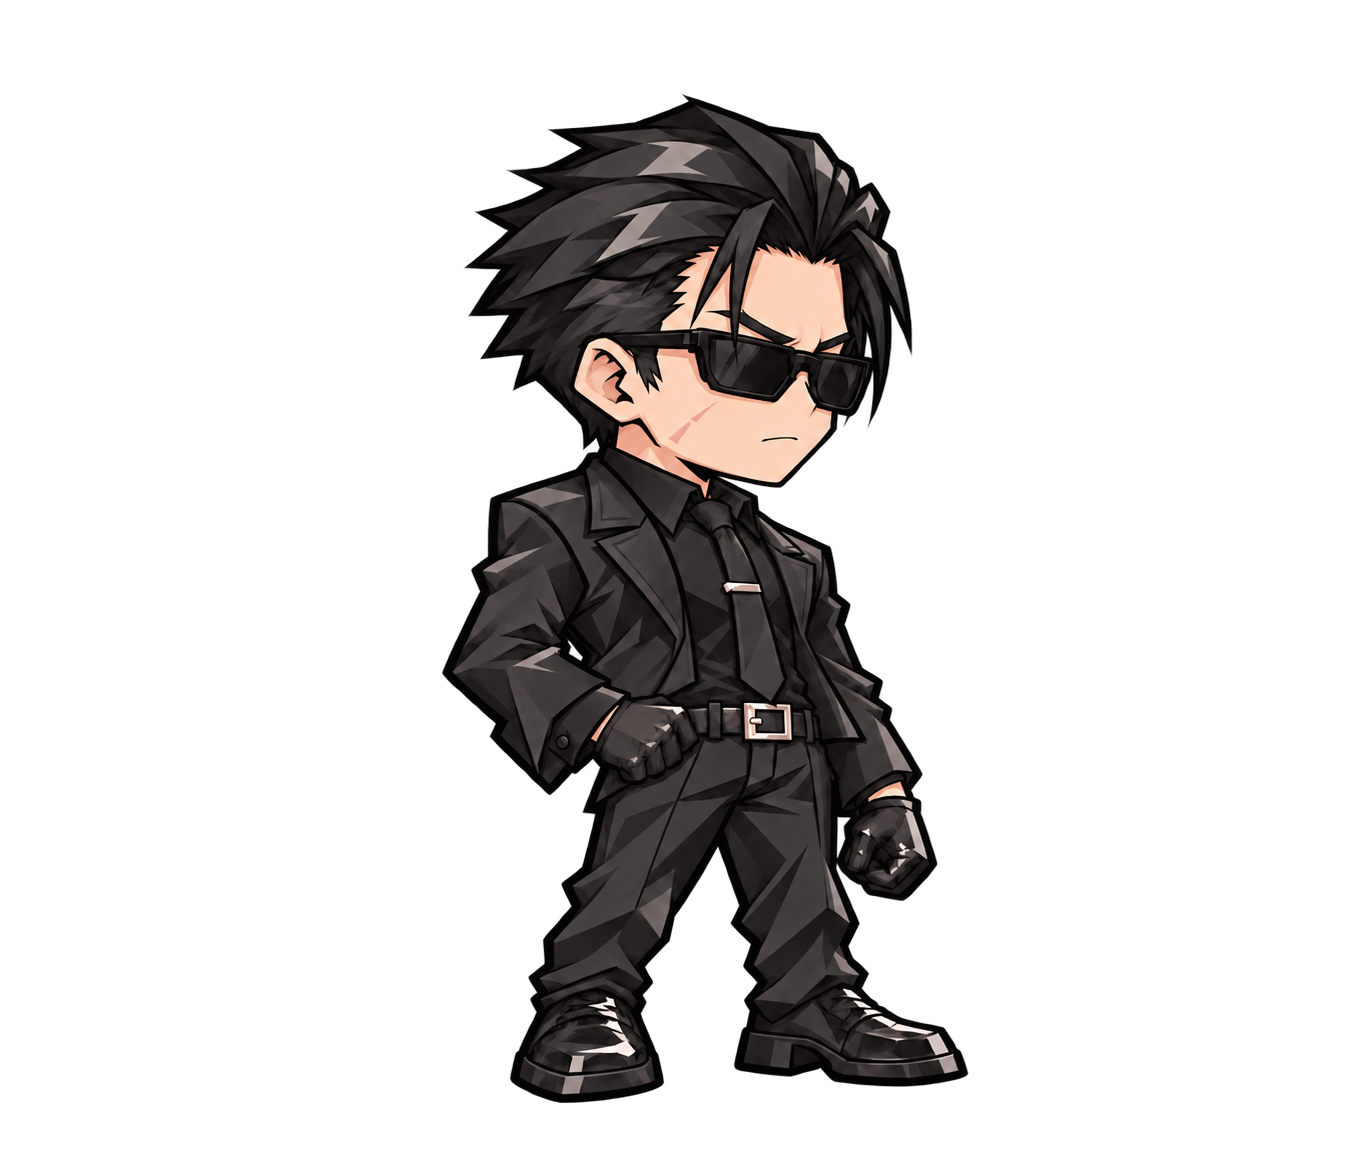
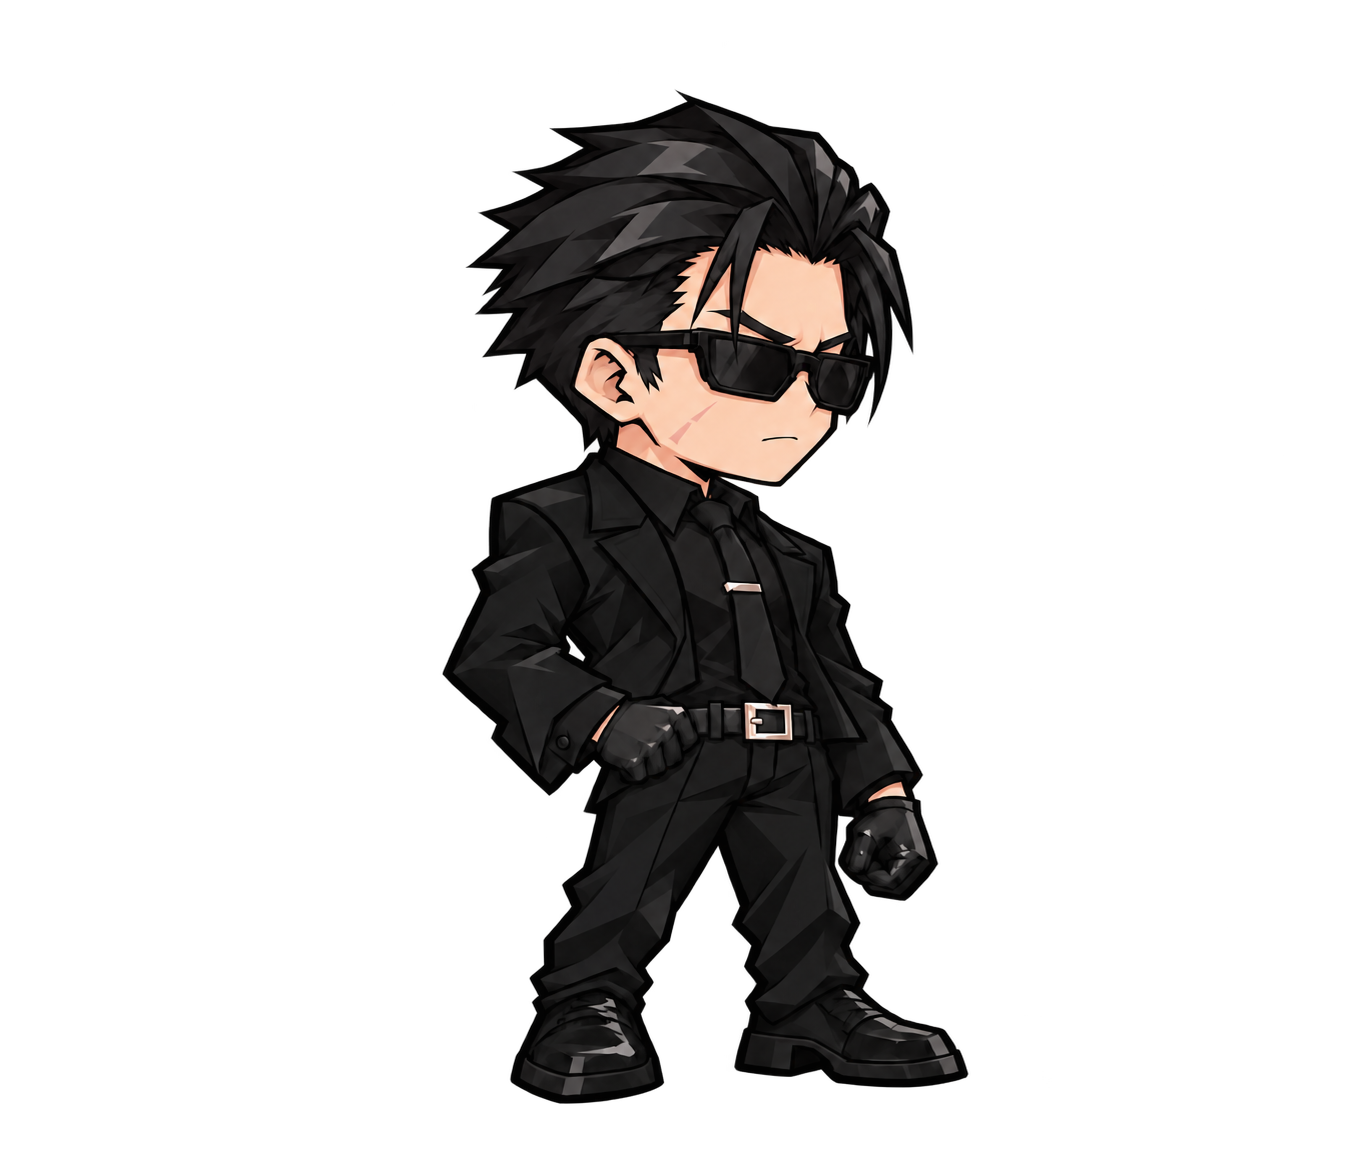
敌人调整

diff --git a/docs/修改记录.md b/docs/修改记录.md
@@ -1,5 +1,25 @@
 # 午夜委托项目修改记录
 
+## 2026 年 10 月 20 日 回退黑帮人物加高试调
+
+按用户最新要求，撤销本轮黑帮老大与两名小弟整体放大15%的试调，以及配套形象解析、角色缩放、镜头取景和专项测试修改，逐字节恢复本轮修改前备份。当前人物尺寸、脚底锚点和动作校准恢复到上一版；小弟衣服加深、同列X=965及上下间距200、老大最右站位均保留。未替换任何人物图片或修改战斗规则。
+
+5个试调文件均与修改前备份一致，99个受保护资源／数据／业务文件哈希无变化。试调截图仅为已撤销历史证据，不作为当前交付；备份、试调副本与回退核验见`artifacts/qa/gang-height-2026-10-20/rollback-verification.json`。
+
+## 2026 年 10 月 19 日 加深黑帮小弟衣服颜色
+
+按用户要求，用内置image_gen对两名小弟共用的站姿、前进、拳打、受击4张图作服装明暗调整：压低外套、衬衣、领带、裤子及鞋／手套的灰色高光，保留褶皱和轮廓，整体更接近深黑。新版以“衣服加深版”另存美术动作参考目录；原“比例统一版”与当前运行图修改前副本均保留。运行目录4张小弟PNG与来源清单同步更新，老大与诺伦图不变。
+
+4张均为1346×1168真实透明RGBA，与保存源图SHA256逐字节一致。可见边界变化0～6源像素（运行尺度不到1逻辑像素），继续使用原脚底锚点和scale；不改头身配置、同列间距、目标区域、角色代码、模型、血量或意图。服装中性暗色区域同掩码对照均确认亮度降低；这仅作为明暗采样，人物和整体效果另作目视检查。
+
+导入通过，1280×800实际窗口动作／目标／归位专项91项、0失败，无脚本／shader错误；目视检查两名小弟同屏服色和动作，模型／HUD／站位脚本、美术配置及老大／诺伦文件哈希未变化。本轮不重复规则测试，不代表真人物理输入或用户视觉接受。证据、备份、4张交付路径与提示词：`artifacts/qa/henchmen-dark-clothes-2026-10-19/`，美术目录附`衣服加深版_生成记录.json`。
+
+## 2026 年 10 月 19 日 拉开两名黑帮小弟的上下间距
+
+按用户“略微分开，仍保持并列”的最新要求，两小弟保留原同列对齐X=965，只将上方小弟从`floor_y-115`移到`floor_y-135`、下方从`floor_y+45`移到`floor_y+65`，各移动20逻辑像素，纵向间距160→200，减少下方头部对上方脚底血条的遮挡。老大槽位、原画、角色缩放、血条跟随、目标区域、规则和HP／意图保持原样。
+
+1280×800真实窗口专项91项、0失败，检查三目标独立选择、所有动作、攻击回调及归位保持新间距，目视检查同列待机画面，无脚本／shader错误。模型、Buff、HUD脚本、敌人／战斗／美术配置及8张角色贴图哈希均未变化。无需新增规则测试；本轮为窗口与目标判定验证，不代表真人物理输入。最终证据：`artifacts/qa/gang-spacing-2026-10-19/aligned-1280/`；早先左右错位尝试按用户纠正撤回，其日志另存未作最终结果。
+
 ## 2026 年 10 月 19 日 数字键选择手牌
 
 战斗中主键盘1～9选择当前从左到右第1～9张手牌，0选择第10张，小键盘数字同样支持。按当前model.hand顺序索引，不受悬停抬升或选中后居中／跟随位置影响；出牌后自然对应新的手牌序号，超出手牌数不操作，重复按同一键保持选中。仅调用现有select_card路径，不自动出牌、不消耗资源，鼠标确认、右键及Esc取消和费用／弹药不足提示沿原流程。

diff --git a/docs/维护文档.md b/docs/维护文档.md
@@ -1,5 +1,11 @@
 # 午夜委托项目维护文档
 
+2026-10-20黑帮人物加高试调已按用户要求回退：恢复修改前尺寸及相关表现脚本，不保留本轮15%放大或镜头调整。小弟深色衣服、同列站位与200间距仍为当前基线。5个试调文件逐字节恢复，99个受保护文件哈希一致；回退核验见`artifacts/qa/gang-height-2026-10-20/rollback-verification.json`。该目录放大截图为已撤销试调。
+
+2026-10-19小弟服装加深：用内置image_gen同步调整共用站姿、前进、拳打、受击4张RGBA，压暗衣服灰色高光并保留褶皱；两名小弟同时使用。新版另存美术目录“衣服加深版”，原比例统一版保留，运行图及来源清单更新。现有锚点、缩放、同列间距、老大／诺伦和战斗脚本未改。导入及1280窗口专项91项0失败，已目视检查同屏效果。证据与提示词`artifacts/qa/henchmen-dark-clothes-2026-10-19/`。
+
+2026-10-19小弟站位微调：按用户要求保留两小弟同列对齐，仅将后侧小弟上移20、前侧小弟下移20逻辑像素，纵向脚底间距160→200；X仍965，老大最右槽位、角色大小、原画、血条／目标跟随方式和战斗规则沿用现状。证据`artifacts/qa/gang-spacing-2026-10-19/`，最终同列版本以`aligned-1280`为准。
+
 2026-10-19手牌键盘选择：主键盘及小键盘1～9选当前从左到右第1～9张，0选第10张，只选中不自动使用；出牌后按当前手牌顺序更新，重复同键保持选中、越界不操作，鼠标确认／右键／Esc取消沿原逻辑。`battle._unhandled_key_input()`调用`select_card(...,false)`，忽略修饰组合、echo和松键，尊重初始化／忙碌／转场／战斗结束／模态；科技弹窗原数字激活功能保留。1280×800真实窗口68项0失败，导入通过，6个正式存档路径前后相同；程序驱动验证不代表真人物理输入验收。证据及首次测试说明见[修改记录](修改记录.md)和[本轮核验](../artifacts/qa/hand-number-keys-2026-10-19/verification.json)。
 
 2026-10-19最新敌人调整：两只变异鱼死亡各施加3层污染，双杀6层，攻击接触2层／主动意图3层不变；新战斗读取3层，旧快照显式死亡5层仍保留。黑帮老大仅在完整回合开始（下一玩家行动前）检测小弟死亡，玩家阶段击杀后当轮敌方仍强化，下一玩家回合显示攻击8；弹反／污染致死也不在敌方阶段中途改招。`begin_round_intents()`在常规游标推进后调用，切换为0，不跳过攻击8；已切换阶段不因第二名死亡或读档而重置。

diff --git a/docs/开发接入说明.md b/docs/开发接入说明.md
@@ -128,7 +128,7 @@ B04的`enemyIds`为`gang_henchman, gang_henchman_second, gang`，该顺序同时
 
 两套动作形象为`gang_boss`／`gang_henchman`，四姿势`idle/move/pierce/damaged`，攻击槽`pierce`分别装踢击／拳打，复用现有命中时序。`sourceFacing:"right"`表示原图朝右（默认`left`）；`poses.*.whiteKey`默认false。2026-10-19比例统一版8张均为RGBA，包括老大待机，全部关闭去白并直接保留alpha；旧RGB待机的去白与归位支持仍保留在表现层。当前来源、尺寸与SHA256见`assets/combat_test/gang_sources.json`，原图及旧运行副本分别保留在美术目录和本轮QA备份中。
 
-敌人实例的可选`formationSlot`分别为`triangle_left_back/triangle_left_front/triangle_right`，由统一解析器转交舞台；未配置保留普通纵深布局。场内完整三角、独立目标选择和右上三人血量同时显示，不将站位顺序当作行动顺序。`battlePortraitAssetId`原字段继续保留。
+敌人实例的可选`formationSlot`分别为`triangle_left_back/triangle_left_front/triangle_right`，由统一解析器转交舞台；未配置保留普通纵深布局。2026-10-19小弟间距微调后，两小弟仍同列X=965，上下脚底为`floor_y-135`／`floor_y+65`，间距200（原160）；老大槽位仍为`(1160,floor_y-35)`。场内完整三角、独立目标选择和右上三人血量同时显示，不将站位顺序当作行动顺序。`battlePortraitAssetId`原字段继续保留。
 
 专项：`tests/gang_rules_tests.tscn`（含边界、负力量、Buff伤害排除、旧档）、`tests/gang_enemy_visual.tscn`（动作／三角／朝向／归位）、`tests/gang_battle_visual.tscn`（真实回合、卡牌击杀、强化、易伤与显示）。证据位于`artifacts/qa/gang-alley-2026-10-19/`；后两者为程序驱动窗口检查，不代表真人输入或美术接受。
 
